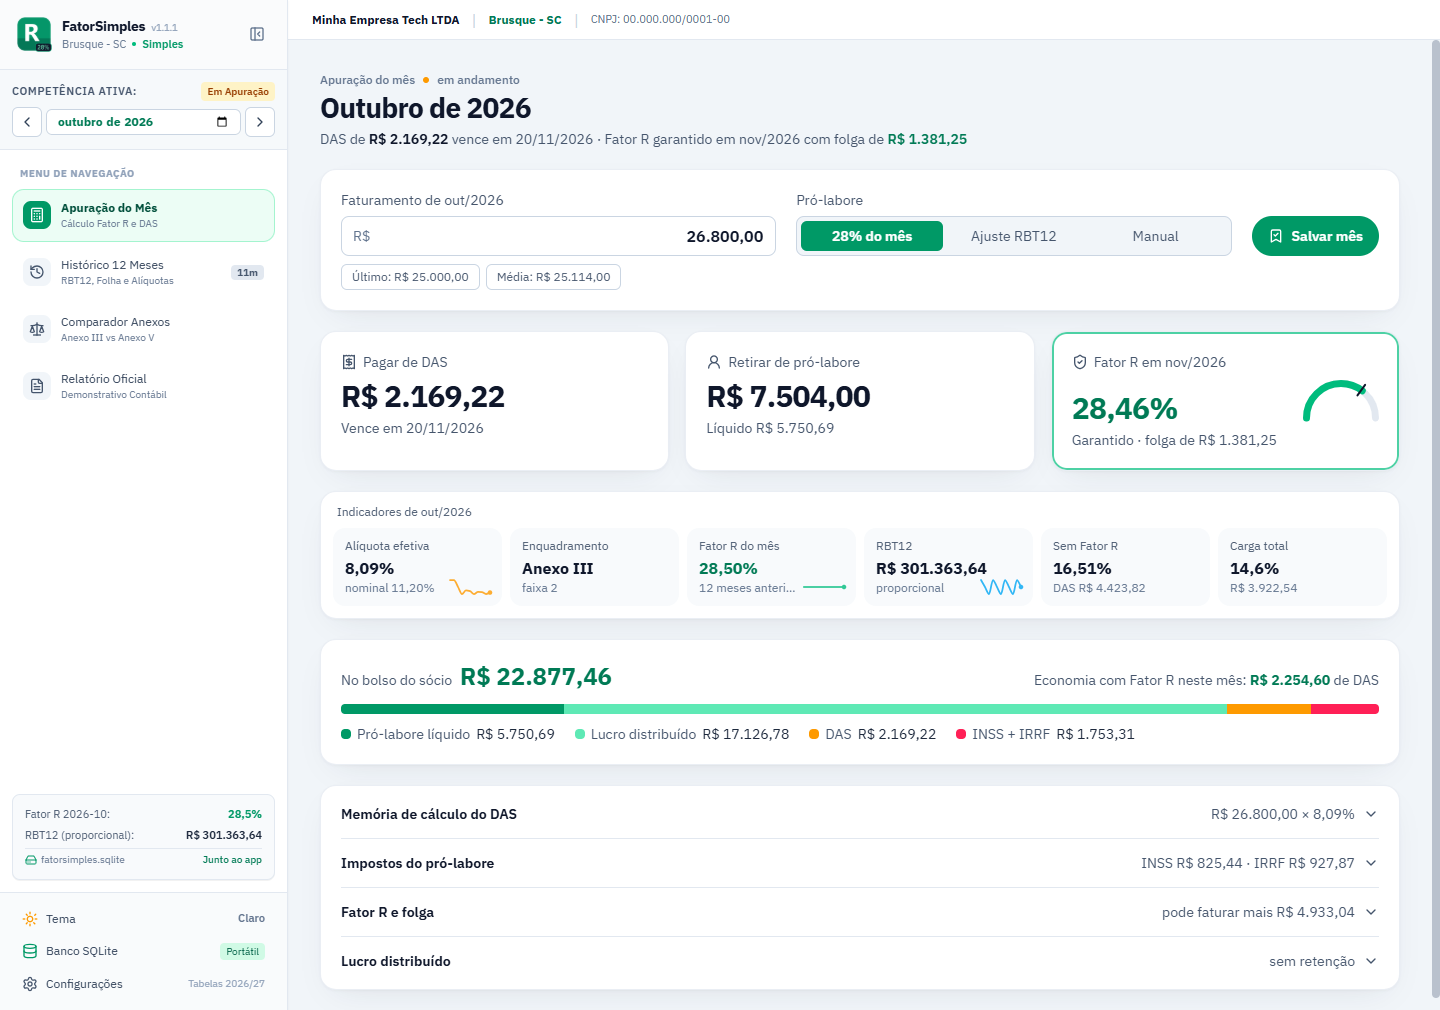
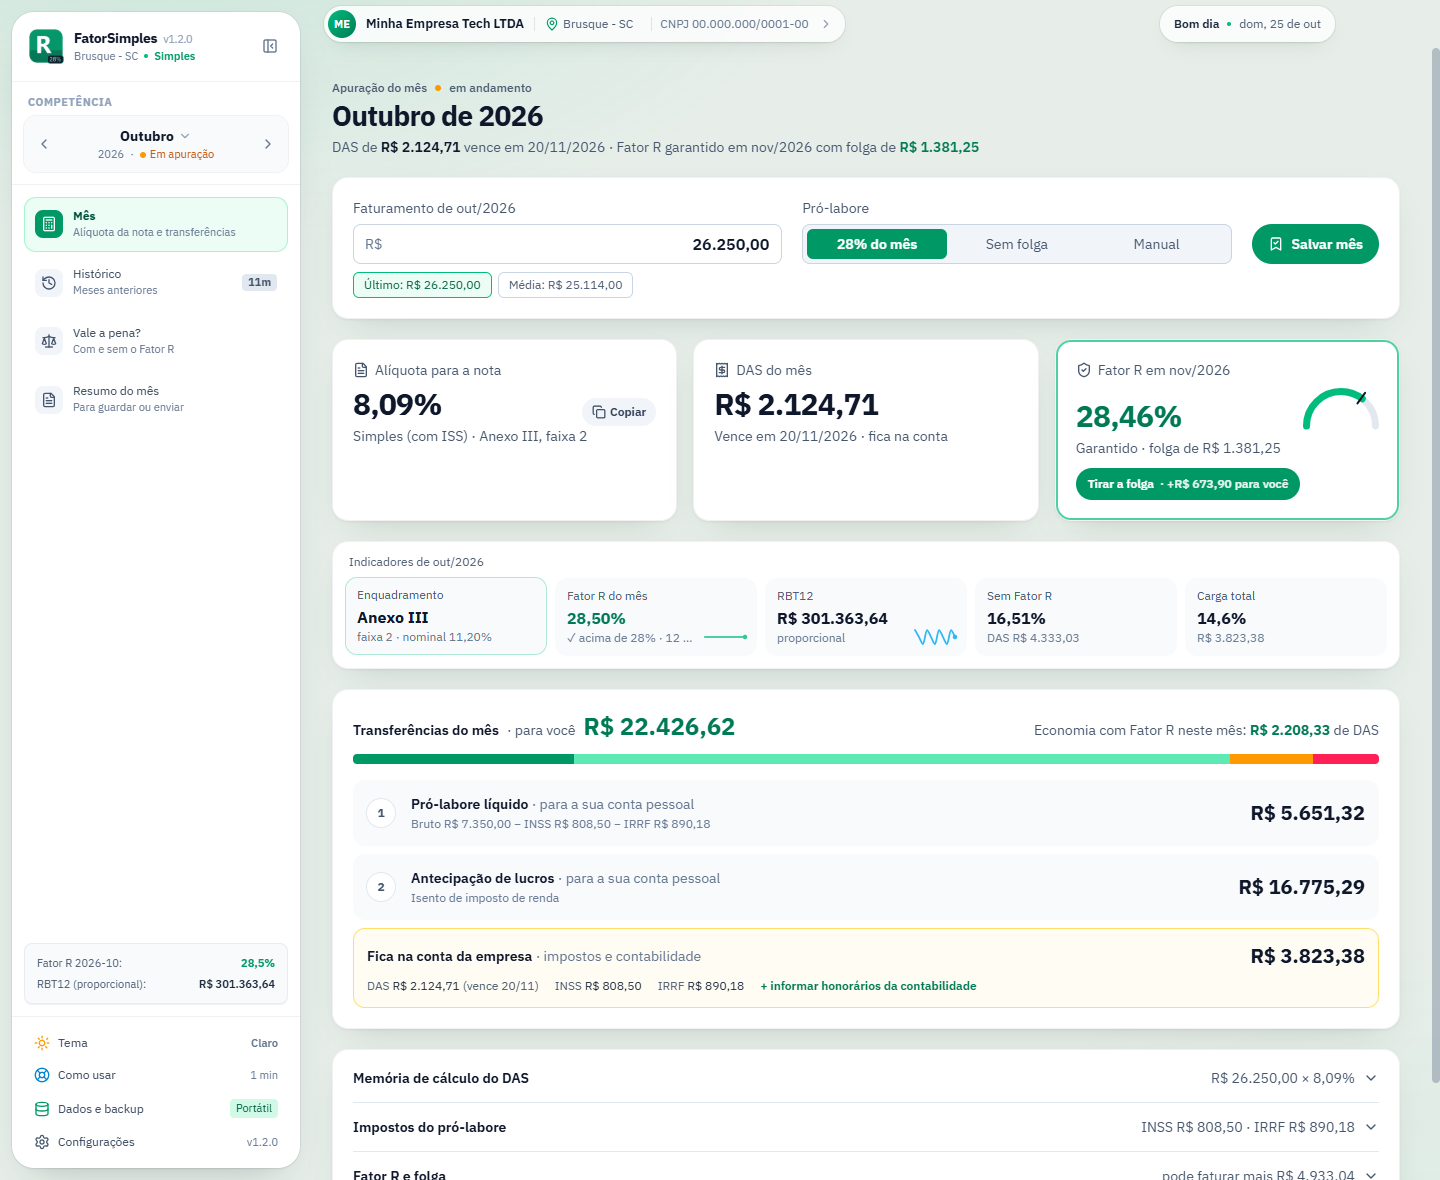
chore: versão 1.2.0, README e capturas de tela atualizados
- package.json 1.2.0
- README: alíquota para a nota, transferências do mês, sem folga, honorários,
  tutorial, temas, atualização das tabelas pelo GitHub e novos nomes de menu
- Capturas novas de todas as telas e do tutorial guiado

diff --git a/README.md b/README.md
@@ -5,7 +5,7 @@
 <br />
 
 **Apuração mensal do Simples Nacional e do Fator R para quem presta serviço.**<br />
-Quanto pagar de DAS, quanto retirar de pró-labore e quanto o Anexo III economiza de verdade.
+A alíquota para a nota, quanto transferir para você e quanto deixar na conta da empresa, sem precisar perguntar à contabilidade.
 
 <br />
 
@@ -36,7 +36,7 @@ Quanto pagar de DAS, quanto retirar de pró-labore e quanto o Anexo III economiz
 
 Empresas do Simples Nacional que prestam serviços sujeitos ao **Fator R** (desenvolvimento de software, consultoria, engenharia, saúde e outras) pagam o DAS pelo **Anexo III**, a partir de 6%, quando a folha de salários dos últimos 12 meses chega a **28% da receita**. Abaixo disso, vão para o **Anexo V**, a partir de 15,5%.
 
-Na prática, isso vira uma conta que precisa ser feita todo mês: quanto de pró-labore retirar para manter os 28%, quanto isso custa de INSS e IRRF e se a troca compensa. O **FatorSimples** faz essa conta com as regras do PGDAS-D e com o seu histórico real, e mostra o resultado de forma direta.
+Na prática, isso vira uma conta que precisa ser feita todo mês: qual alíquota informar na nota fiscal, quanto de pró-labore retirar para manter os 28%, quanto isso custa de INSS e IRRF e quanto pode ir para a sua conta. O **FatorSimples** faz essa conta com as regras do PGDAS-D e com o seu histórico real, e mostra o resultado de forma direta, pensado para quem não é contador.
 
 > Validado contra recibos reais do PGDAS-D: com a mesma receita e folha, o app chega ao **mesmo RBT12, Fator R e valor do DAS**, com diferença máxima de R$ 0,01 por arredondamento dos tributos.
 
@@ -46,16 +46,17 @@ Na prática, isso vira uma conta que precisa ser feita todo mês: quanto de pró
 <tr>
 <td width="50%" valign="top">
 
-### 📅 Apuração do mês
-- **Três respostas no topo:** DAS a pagar (com vencimento), pró-labore a retirar e o Fator R garantido para o mês seguinte
-- Indicadores sempre visíveis: alíquota efetiva e nominal, anexo e faixa, RBT12, alíquota sem Fator R e carga total
-- Estratégias de pró-labore: **28% do mês**, **ajuste exato pelo RBT12** ou **manual**
-- Memória de cálculo completa, recolhida por padrão
+### 📅 Mês
+- **Três respostas no topo:** a **alíquota para a nota** (com botão de copiar), o DAS com vencimento e o Fator R garantido para o mês seguinte
+- **Transferências do mês:** pró-labore líquido e antecipação de lucros para a sua conta, e o que fica na conta da empresa (DAS, INSS, IRRF e contabilidade)
+- Pró-labore em **28% do mês**, **sem folga** (o mínimo que mantém os 28%) ou **manual**. O botão **Tirar a folga** mostra quanto a mais vai para você
+- Honorários da contabilidade na conta e aviso quando o faturamento não cobre pró-labore, DAS e contabilidade
+- Indicadores do mês e memória de cálculo completa, recolhida por padrão
 
 </td>
 <td width="50%" valign="top">
 
-### ⚖ Comparador de anexos
+### ⚖ Vale a pena?
 - **Realizado × sem Fator R** mês a mês, com o que você pagou de fato
 - **Folga do Fator R:** quanto ainda dá para faturar ou reduzir de pró-labore sem cair no Anexo V
 - Simulador "e se" centrado no seu faturamento real
@@ -66,7 +67,7 @@ Na prática, isso vira uma conta que precisa ser feita todo mês: quanto de pró
 <tr>
 <td valign="top">
 
-### 🗂 Histórico de 12 meses
+### 🗂 Histórico
 - Receita, folha, INSS, IRRF e DAS por competência
 - Fator R **de apuração** de cada mês (12 meses anteriores), com o anexo
 - Importação e exportação em JSON, com cálculo automático de INSS, IRRF e DAS que vierem zerados
@@ -77,9 +78,29 @@ Na prática, isso vira uma conta que precisa ser feita todo mês: quanto de pró
 
 ### 🧾 Tabelas e regras atualizadas
 - Tabelas oficiais por competência: salário mínimo, teto do INSS e IRRF (2024 a 2027)
+- **Atualização pelo GitHub:** o app já vem com as tabelas e confere se há tabelas novas (no máximo uma vez por dia). Também avisa quando sai uma versão nova do app
 - **Lei 15.270/2025:** redução do IRRF até R$ 7.350 e retenção de 10% sobre lucros acima de R$ 50 mil/mês
 - Regras da Resolução CGSN 140/2018 para folha ou receita zeradas
-- Relatório de apuração pronto para imprimir ou salvar em PDF
+- **Resumo do mês** pronto para imprimir, salvar em PDF ou mandar para a contabilidade
+
+</td>
+</tr>
+<tr>
+<td valign="top">
+
+### 🎓 Fácil de começar
+- **Tutorial guiado** na primeira abertura, em 1 minuto, com a opção de explorar sozinho
+- Cada tela se apresenta na primeira visita, e o botão **Como usar** mostra o passo a passo da tela atual
+- Depois de atualizar o app, só as **novidades** aparecem, uma vez
+
+</td>
+<td valign="top">
+
+### 🎨 Interface
+- Temas **claro e escuro**, com a troca animada a partir do botão
+- Menu lateral recolhível, que lembra a sua escolha
+- Animações suaves e sons sutis, que podem ser desligados nas Configurações
+- Barra de título própria, com os dados da empresa a um clique
 
 </td>
 </tr>
@@ -91,13 +112,13 @@ Na prática, isso vira uma conta que precisa ser feita todo mês: quanto de pró
 
 <div align="center">
 
-<img src="docs/screenshots/apuracao.png" alt="Apuração do mês" width="100%" />
-<sub><b>Apuração do mês:</b> DAS, pró-labore e Fator R do mês seguinte, com os indicadores logo abaixo</sub>
+<img src="docs/screenshots/apuracao.png" alt="Mês: alíquota para a nota, DAS, Fator R e transferências" width="100%" />
+<sub><b>Mês:</b> a alíquota para a nota, o DAS, o Fator R do mês seguinte e as transferências do mês</sub>
 
 <br /><br />
 
-<img src="docs/screenshots/comparador.png" alt="Comparador de anexos" width="100%" />
-<sub><b>Comparador de anexos:</b> economia real com o Fator R, folga do mês e o realizado mês a mês</sub>
+<img src="docs/screenshots/comparador.png" alt="Vale a pena?" width="100%" />
+<sub><b>Vale a pena?:</b> economia real com o Fator R, folga do mês e o realizado mês a mês</sub>
 
 </div>
 
@@ -105,13 +126,13 @@ Na prática, isso vira uma conta que precisa ser feita todo mês: quanto de pró
 <summary><b>Ver mais telas</b></summary>
 <br />
 
-| Memória de cálculo | Simulador "e se" |
+| Transferências e memória de cálculo | Simulador "e se" |
 |:---:|:---:|
-| <img src="docs/screenshots/apuracao-detalhes.png" alt="Memória de cálculo" /> | <img src="docs/screenshots/comparador-simulador.png" alt="Simulador" /> |
-| **Histórico de 12 meses** | **Relatório de apuração** |
-| <img src="docs/screenshots/historico.png" alt="Histórico" /> | <img src="docs/screenshots/relatorio.png" alt="Relatório" /> |
-| **Tema claro** | |
-| <img src="docs/screenshots/apuracao-claro.png" alt="Tema claro" /> | |
+| <img src="docs/screenshots/apuracao-detalhes.png" alt="Transferências e memória de cálculo" /> | <img src="docs/screenshots/comparador-simulador.png" alt="Simulador" /> |
+| **Histórico** | **Resumo do mês** |
+| <img src="docs/screenshots/historico.png" alt="Histórico" /> | <img src="docs/screenshots/relatorio.png" alt="Resumo do mês" /> |
+| **Tema claro** | **Tutorial guiado** |
+| <img src="docs/screenshots/apuracao-claro.png" alt="Tema claro" /> | <img src="docs/screenshots/tutorial.png" alt="Tutorial guiado" /> |
 
 </details>
 
@@ -157,6 +178,22 @@ O pró-labore do mês entra no Fator R das **próximas** competências, não no 
 | Compara | DAS + INSS + IRRF | DAS + INSS + IRRF |
 
 O pró-labore em si não é custo: é dinheiro que vai para o sócio. Por isso a comparação é feita pelos **impostos** de cada cenário. O "realizado" usa os valores efetivamente pagos que estão no histórico.
+
+</details>
+
+<details>
+<summary><b>Transferências do mês e o que fica na conta</b></summary>
+<br />
+
+Depois de receber, o faturamento do mês se divide em três partes, que somam exatamente o valor recebido:
+
+| Parte | Conta |
+|---|---|
+| **Pró-labore líquido** (para você) | Pró-labore bruto − INSS − IRRF |
+| **Antecipação de lucros** (para você) | Faturamento − DAS − pró-labore bruto − contabilidade − IR retido sobre lucros |
+| **Fica na conta da empresa** | DAS + INSS + IRRF + IR retido sobre lucros + contabilidade |
+
+Se o faturamento não cobre o pró-labore, o DAS e a contabilidade, a tela avisa quanto falta na conta.
 
 </details>
 
@@ -220,11 +257,11 @@ chmod +x FatorSimples-*.AppImage
 
 </details>
 
-Para fazer backup, copie o `fatorsimples.sqlite`. O menu **Banco SQLite** do app mostra onde ele está e abre a pasta.
+Para fazer backup, copie o `fatorsimples.sqlite`. O menu **Dados e backup** do app mostra onde ele está e abre a pasta.
 
 ## 🔄 Importando o seu histórico
 
-Pelo menu **Banco SQLite → Importar dados**, o app aceita um JSON no formato abaixo. As competências são mescladas por mês, e o resumo mostra o que será incluído ou substituído antes de gravar. INSS, IRRF e DAS zerados são calculados na importação.
+Pelo menu **Dados e backup → Importar Dados**, o app aceita um JSON no formato abaixo. As competências são mescladas por mês, e o resumo mostra o que será incluído ou substituído antes de gravar. INSS, IRRF e DAS zerados são calculados na importação.
 
 ```json
 {
@@ -265,6 +302,7 @@ npm run dev
 | `npm run dev` | Interface no navegador em `http://localhost:3000`, com dados no `localStorage` |
 | `npm run electron:dev` | Abre o app desktop (usa o build em `dist/` se existir; senão, o servidor em `:3000`) |
 | `npm run lint` | Checagem de tipos com TypeScript |
+| `npm test` | Testes automatizados (Vitest) dos cálculos, das tabelas e da interface |
 | `npm run build` | Build de produção da interface em `dist/` |
 | `npm run dist:portable` | Gera `release/FatorSimples-<versão>-portable.exe` (Windows) |
 | `npm run dist:mac` | Gera os `.dmg` para Mac com chip Apple e Intel (macOS) |
@@ -286,28 +324,43 @@ O changelog agrupa os commits pelo prefixo: `feat:` (novidades), `fix:` (correç
 fatorsimples/
 ├── electron/              # processo principal: janela, SQLite local e ponte segura (preload)
 ├── src/
-│   ├── components/        # telas: Apuração, Histórico, Comparador, Relatório e modais
+│   ├── components/        # telas: Mês, Histórico, Vale a pena?, Resumo do mês e modais
+│   ├── tour/              # tutorial guiado (driver.js): passos por tela e o que já foi visto
+│   ├── hooks/             # preferências da interface, sons e contagem animada
 │   ├── utils/
-│   │   ├── taxCalculations.ts    # Fator R, RBT12, DAS, INSS, IRRF, folga e comparativos
+│   │   ├── taxCalculations.ts    # Fator R, RBT12, DAS, INSS, IRRF, folga, transferências e comparativos
 │   │   ├── taxTablesRegistry.ts  # tabelas oficiais por competência
+│   │   ├── remoteTables.ts       # atualização das tabelas pelo GitHub e aviso de versão nova
 │   │   ├── dataTransfer.ts       # importação e exportação em JSON
 │   │   └── storageAdapter.ts     # SQLite (desktop) ou localStorage (navegador)
 │   └── types/             # tipos do domínio fiscal
-├── scripts/               # preparação do Electron para o empacotamento
+├── tax-tables/            # tabelas.json publicado para os apps já instalados
+├── scripts/               # empacotamento, notas de release e exportação das tabelas
 ├── build/                 # ícones do app (Windows, macOS e Linux)
 └── docs/                  # banner e capturas do README
 ```
 
 ### Tabelas fiscais
 
-As tabelas ficam em [`src/utils/taxTablesRegistry.ts`](src/utils/taxTablesRegistry.ts), uma por vigência, com salário mínimo, teto do INSS, faixas do IRRF, desconto simplificado e as regras da Lei 15.270/2025. A competência escolhe a tabela automaticamente. Quando sair uma tabela nova, basta adicionar a versão e apontá-la em `getTaxTableForCompetence`. A tabela de 2027 repete os valores de 2026 até a publicação oficial.
+As tabelas ficam em [`src/utils/taxTablesRegistry.ts`](src/utils/taxTablesRegistry.ts), uma por vigência (`validFrom` e `validTo`), com salário mínimo, teto do INSS, faixas do IRRF, desconto simplificado e as regras da Lei 15.270/2025. A competência escolhe a tabela automaticamente. A tabela de 2027 repete os valores de 2026 até a publicação oficial.
+
+O app já nasce com essas tabelas. Os apps instalados recebem alterações pelo arquivo [`tax-tables/tabelas.json`](tax-tables/tabelas.json) da `main`, validado antes de entrar no banco local e aplicado só se for mais novo que as tabelas embutidas. Quando sair uma tabela nova:
+
+1. Adicione ou ajuste a versão em `taxTablesRegistry.ts` e atualize `BUILTIN_TABLES_DATE`
+2. Gere o arquivo publicado:
+
+```bash
+npx tsx scripts/export-tax-tables.ts
+```
+
+3. Faça o commit e o push na `main`. Os apps instalados aplicam as tabelas na próxima verificação
 
 ## 🗺 Próximos passos
 
 - [ ] Importar recibos do PGDAS-D e a lista de pagamentos do e-CAC direto em PDF
 - [ ] Indicar quando a linha do histórico não tem os 12 meses anteriores disponíveis
 - [ ] Suporte a mais de um sócio na distribuição de lucros
-- [ ] Testes automatizados dos cálculos com casos reais
+- [x] Testes automatizados dos cálculos com casos reais
 
 ## ⚠ Aviso
 
